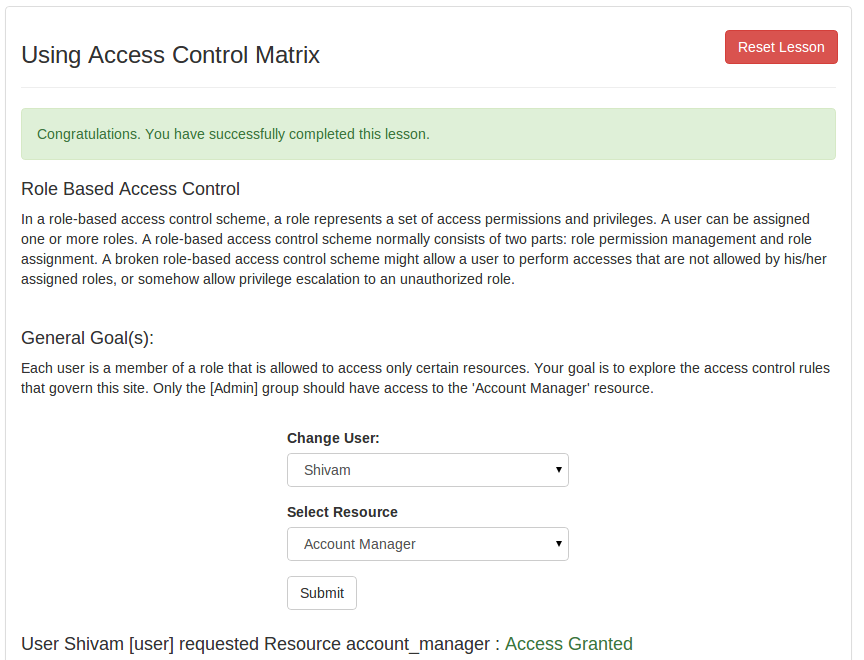
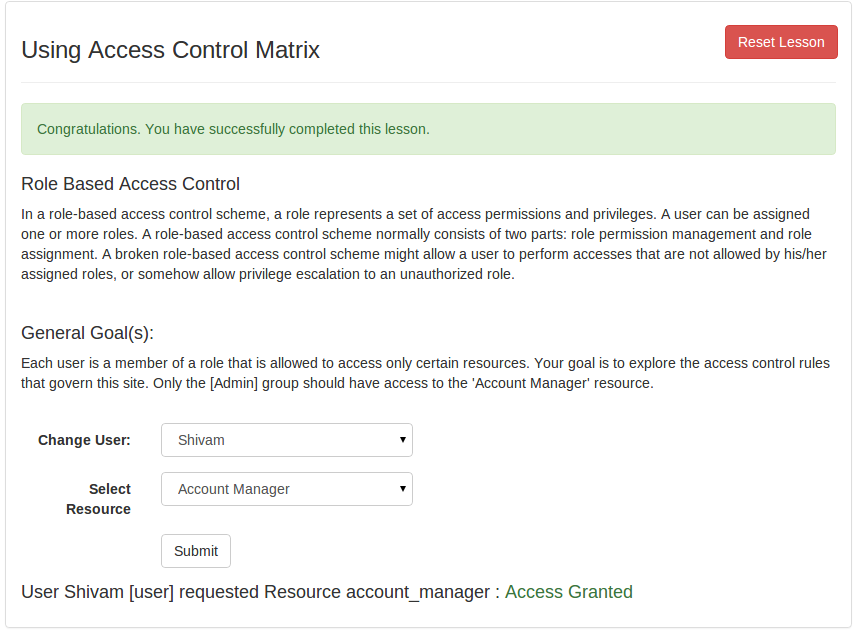
Minor UI tweaks

diff --git a/challenges/BusinessLayerAccessControl/static/solution.html b/challenges/BusinessLayerAccessControl/static/solution.html
@@ -1,3 +1,3 @@
 <h3>Solution</h3>
 <br>
-<p>To solve this exercise you have to know the name of the action, which deletes employees. Of course you could just guess it because it has a really logical name. But we will look it up. So your first step is to log in as John with john as password. Use a proxy to intercept the delete request. As you can see the delete action is called DeleteProfile. Now log in as Tom. Click in the list on his name and make sure the proxy will intercept the next request. Click on a button, for example the 'ViewProfile' button. Change in WebScarab the action to DeleteProfile</p>
+<p>To solve this exercise you have to know the name of the action, which deletes employees. Of course you could just guess it because it has a really logical name. But we will look it up. So your first step is to log in as 'John' with 'john' as password. Use a proxy to intercept the delete request. As you can see the delete action is called 'DeleteProfile'. Now log in as Tom. Click in the list on his name and make sure the proxy will intercept the next request. Click on a button, for example the 'ViewProfile' button. Change in WebScarab the action to 'DeleteProfile'</p>

diff --git a/challenges/AccessControlMatrix/static/solution.html b/challenges/AccessControlMatrix/static/solution.html
@@ -3,7 +3,7 @@
 <p>
 This exercise is straightforward. You need to find a user where you can access a resource that you shouldn't be able to access.
 
-After a few attempts you will learn that Shivam can access resources of the role Account Manager.
+After a few attempts you will learn that 'Shivam' can access resources of the role 'Account Manager'.
 </p>
 
 <img src="static/solution.png" class="img-responsive" alt="Solution">

diff --git a/challenges/PathBasedAccessControl/static/solution.html b/challenges/PathBasedAccessControl/static/solution.html
@@ -1,3 +1,3 @@
 <h3>Solution</h3>
 <br>
-<p>This lesson can be solved by intercepting the filename in the proxy and replacing it with ../content.html which is a file located in a folder below the current directory.</p>
+<p>This lesson can be solved by intercepting the filename in the proxy and replacing it with <em>../content.html</em> which is a file located in a folder below the current directory.</p>

diff --git a/app/view/default/mode/single/challenges/__catch.php b/app/view/default/mode/single/challenges/__catch.php
@@ -12,7 +12,7 @@
             <span class="icon-bar"></span>
             <span class="icon-bar"></span>
         </button>
-        <a href="?refresh=true" class="btn navbar-btn btn-xs btn-info pull-left">Refresh List</a>
+        <a href="?refresh=true" class="btn navbar-btn btn-xs btn-success pull-left">Refresh List</a>
 
         <div class="collapse navbar-collapse navHeaderCollapse">
             <ul class="nav navbar-nav navbar-right">
@@ -78,11 +78,13 @@
                     <div class="page-header">
                         <div class="row">
                             <div class="col-md-10">
-                                <h3><?php if(isset($this->error)) echo $this->error; else echo $this->lessonTitle; ?></h3>
+                                <h3><?php if(isset($this->error)) echo $this->error; else echo $this->lessonTitle; ?>
+                                </h3>
                             </div>
                             <?php if (!isset($this->error)):?>
                                 <div class="col-md-2">
-                                    <a href="<?php echo SINGLE_MODE_LESSON_URL."$this->nameOfLesson/reset/"; ?>" class="btn btn-danger navbar-btn" id="reset-btn">Reset Lesson</a>
+                                    <a href="<?php echo SINGLE_MODE_LESSON_URL."$this->nameOfLesson/reset/"; ?>"
+                                       class="btn btn-sm btn-danger navbar-btn" id="reset-btn">Reset Lesson</a>
                                 </div>
                             <?php endif;?>
                         </div>

diff --git a/app/view/default/mode/workshop/challenges/__catch.php b/app/view/default/mode/workshop/challenges/__catch.php
@@ -12,7 +12,7 @@
             <span class="icon-bar"></span>
             <span class="icon-bar"></span>
         </button>
-        <a href="?refresh=true" class="btn navbar-btn btn-xs btn-info pull-left">Refresh List</a>
+        <a href="?refresh=true" class="btn navbar-btn btn-xs btn-success pull-left">Refresh List</a>
 
         <div class="collapse navbar-collapse navHeaderCollapse">
             <ul class="nav navbar-nav navbar-right">
@@ -86,7 +86,7 @@
                             </div>
                             <?php if (!isset($this->error)):?>
                                 <div class="col-md-2">
-                                    <a href="<?php echo WORKSHOP_MODE_LESSON_URL."$this->nameOfLesson/reset/"; ?>" class="btn btn-danger navbar-btn" id="reset-btn">Reset Lesson</a>
+                                    <a href="<?php echo WORKSHOP_MODE_LESSON_URL."$this->nameOfLesson/reset/"; ?>" class="btn btn-sm btn-danger navbar-btn" id="reset-btn">Reset Lesson</a>
                                 </div>
                             <?php endif;?>
                         </div>

diff --git a/challenges/BusinessLayerAccessControl/index.php b/challenges/BusinessLayerAccessControl/index.php
@@ -142,7 +142,7 @@ class BusinessLayerAccessControl extends BaseLesson
                 <div class="col-sm-offset-2 col-sm-4">
                     <input type="submit" value="Login" name="submit" class="btn btn-default">
                 </div>
-            </div></form></div></div>';
+            </div></form>';
     }
 
     private function showScreen2($id = null)
